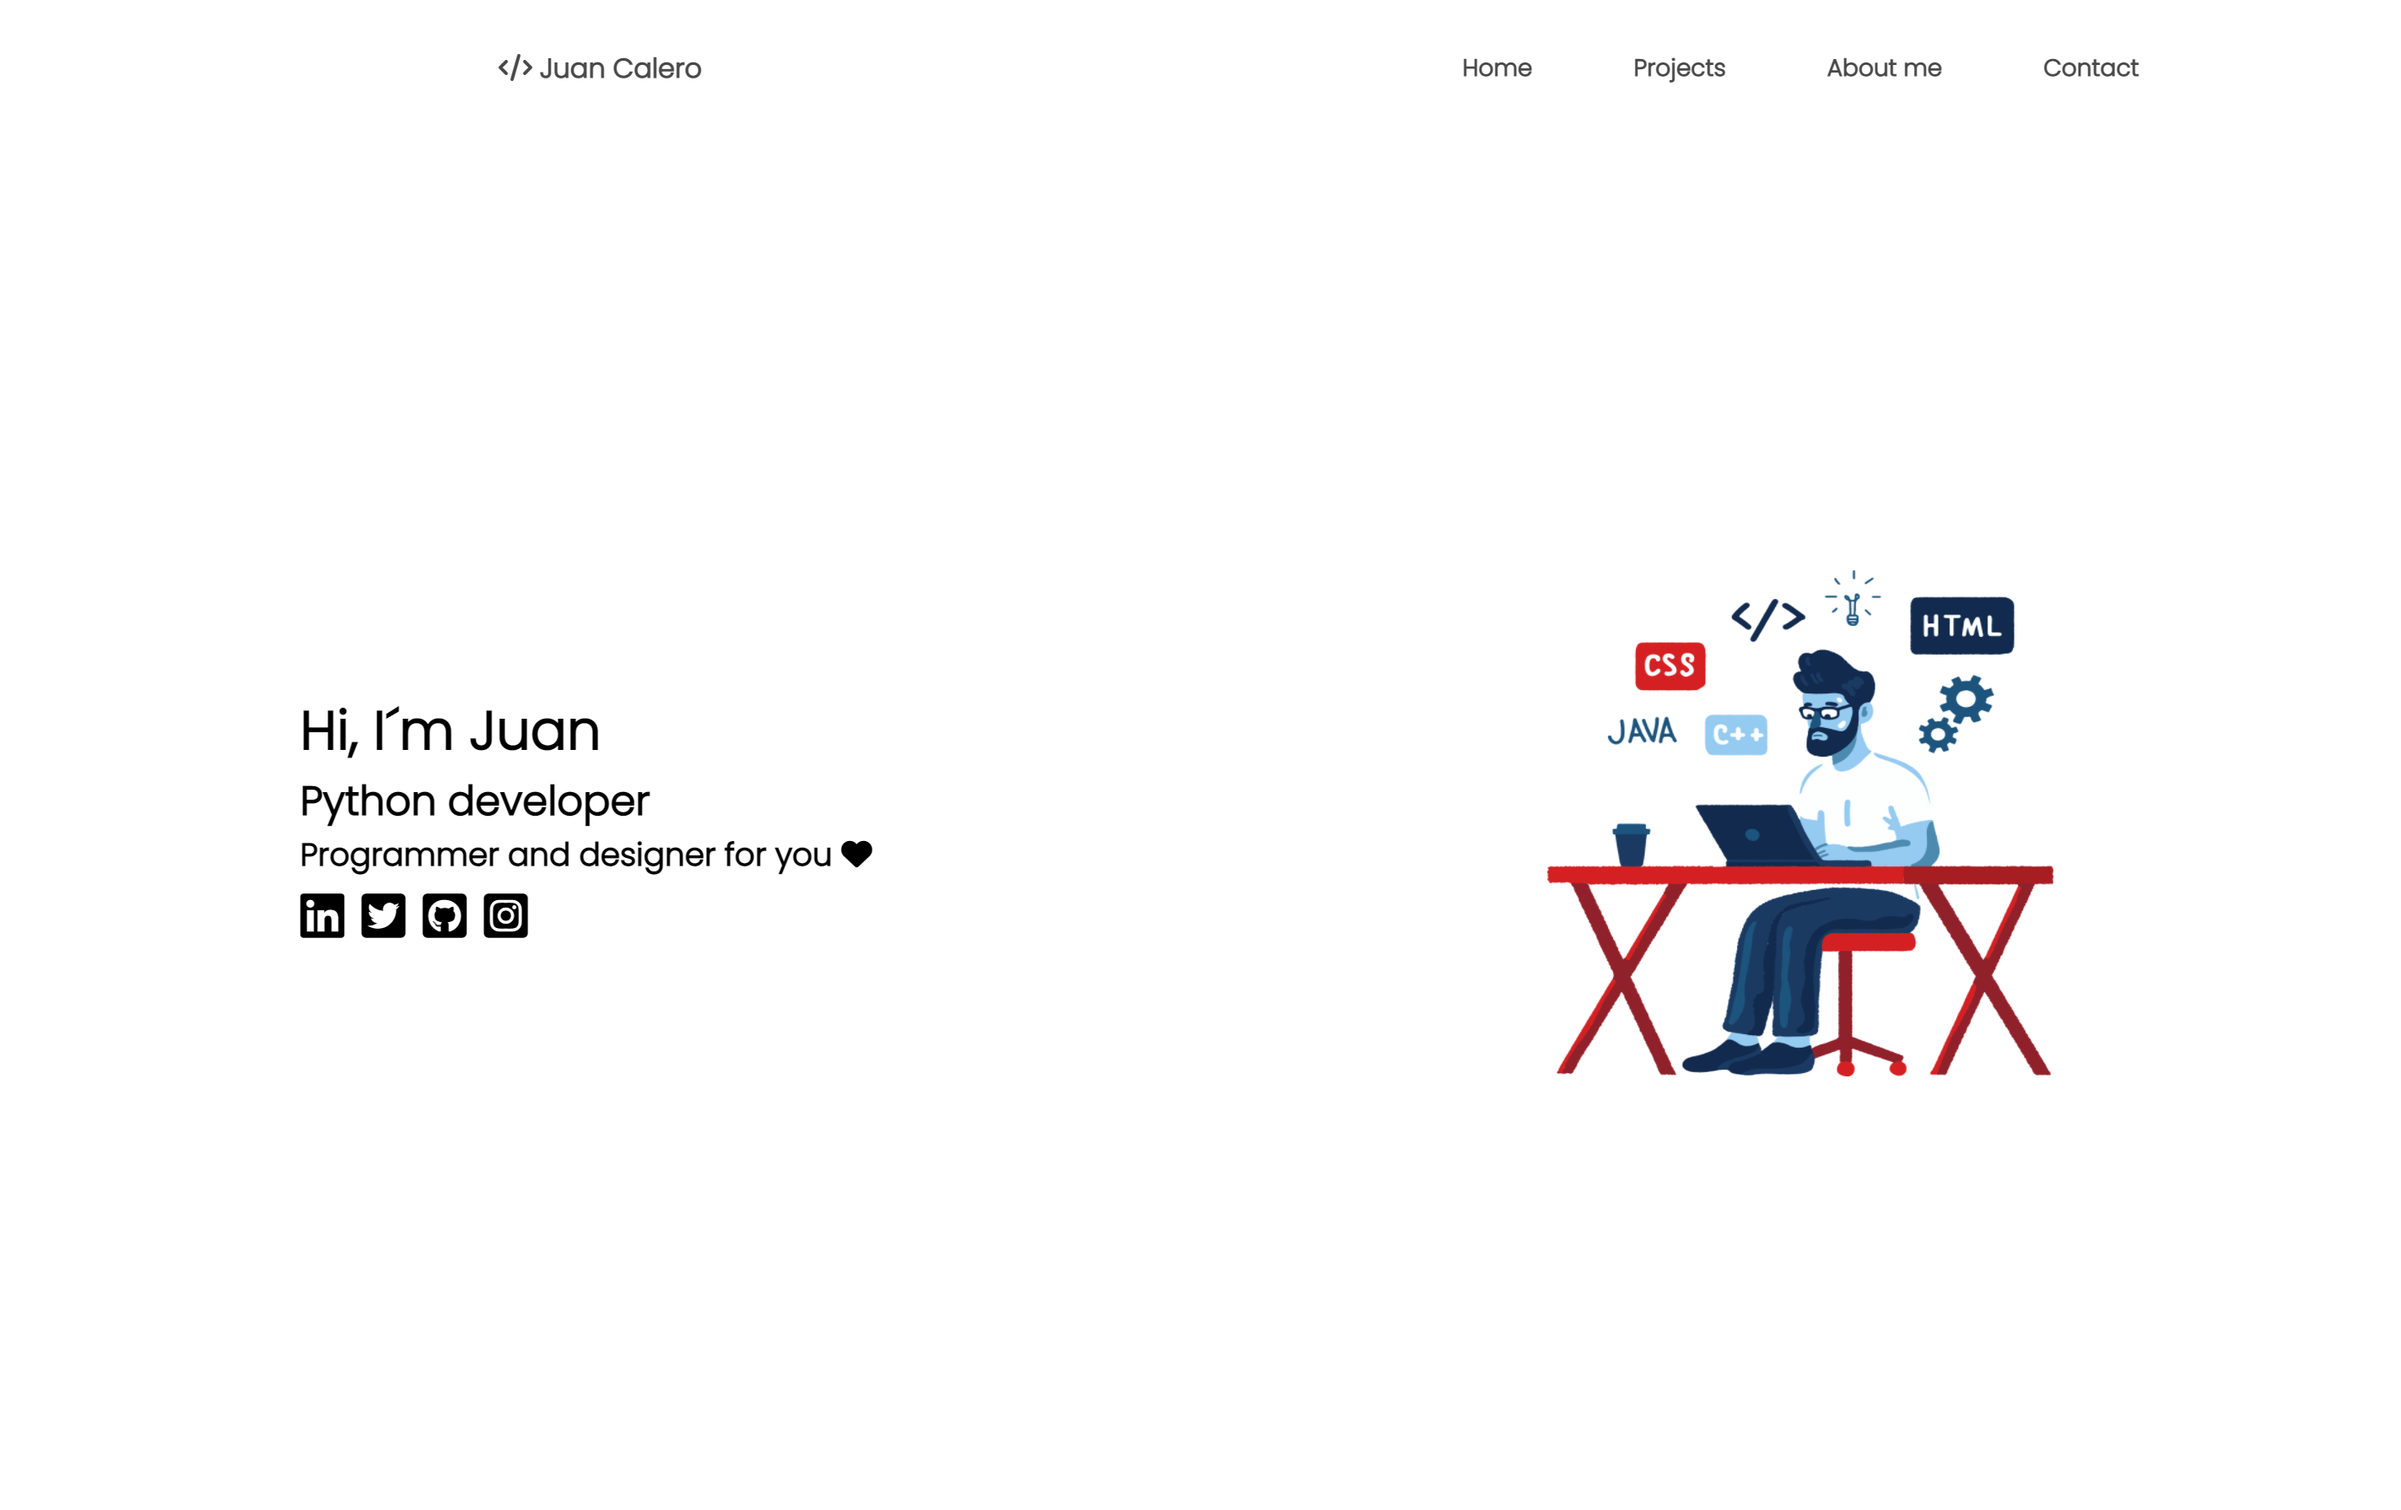
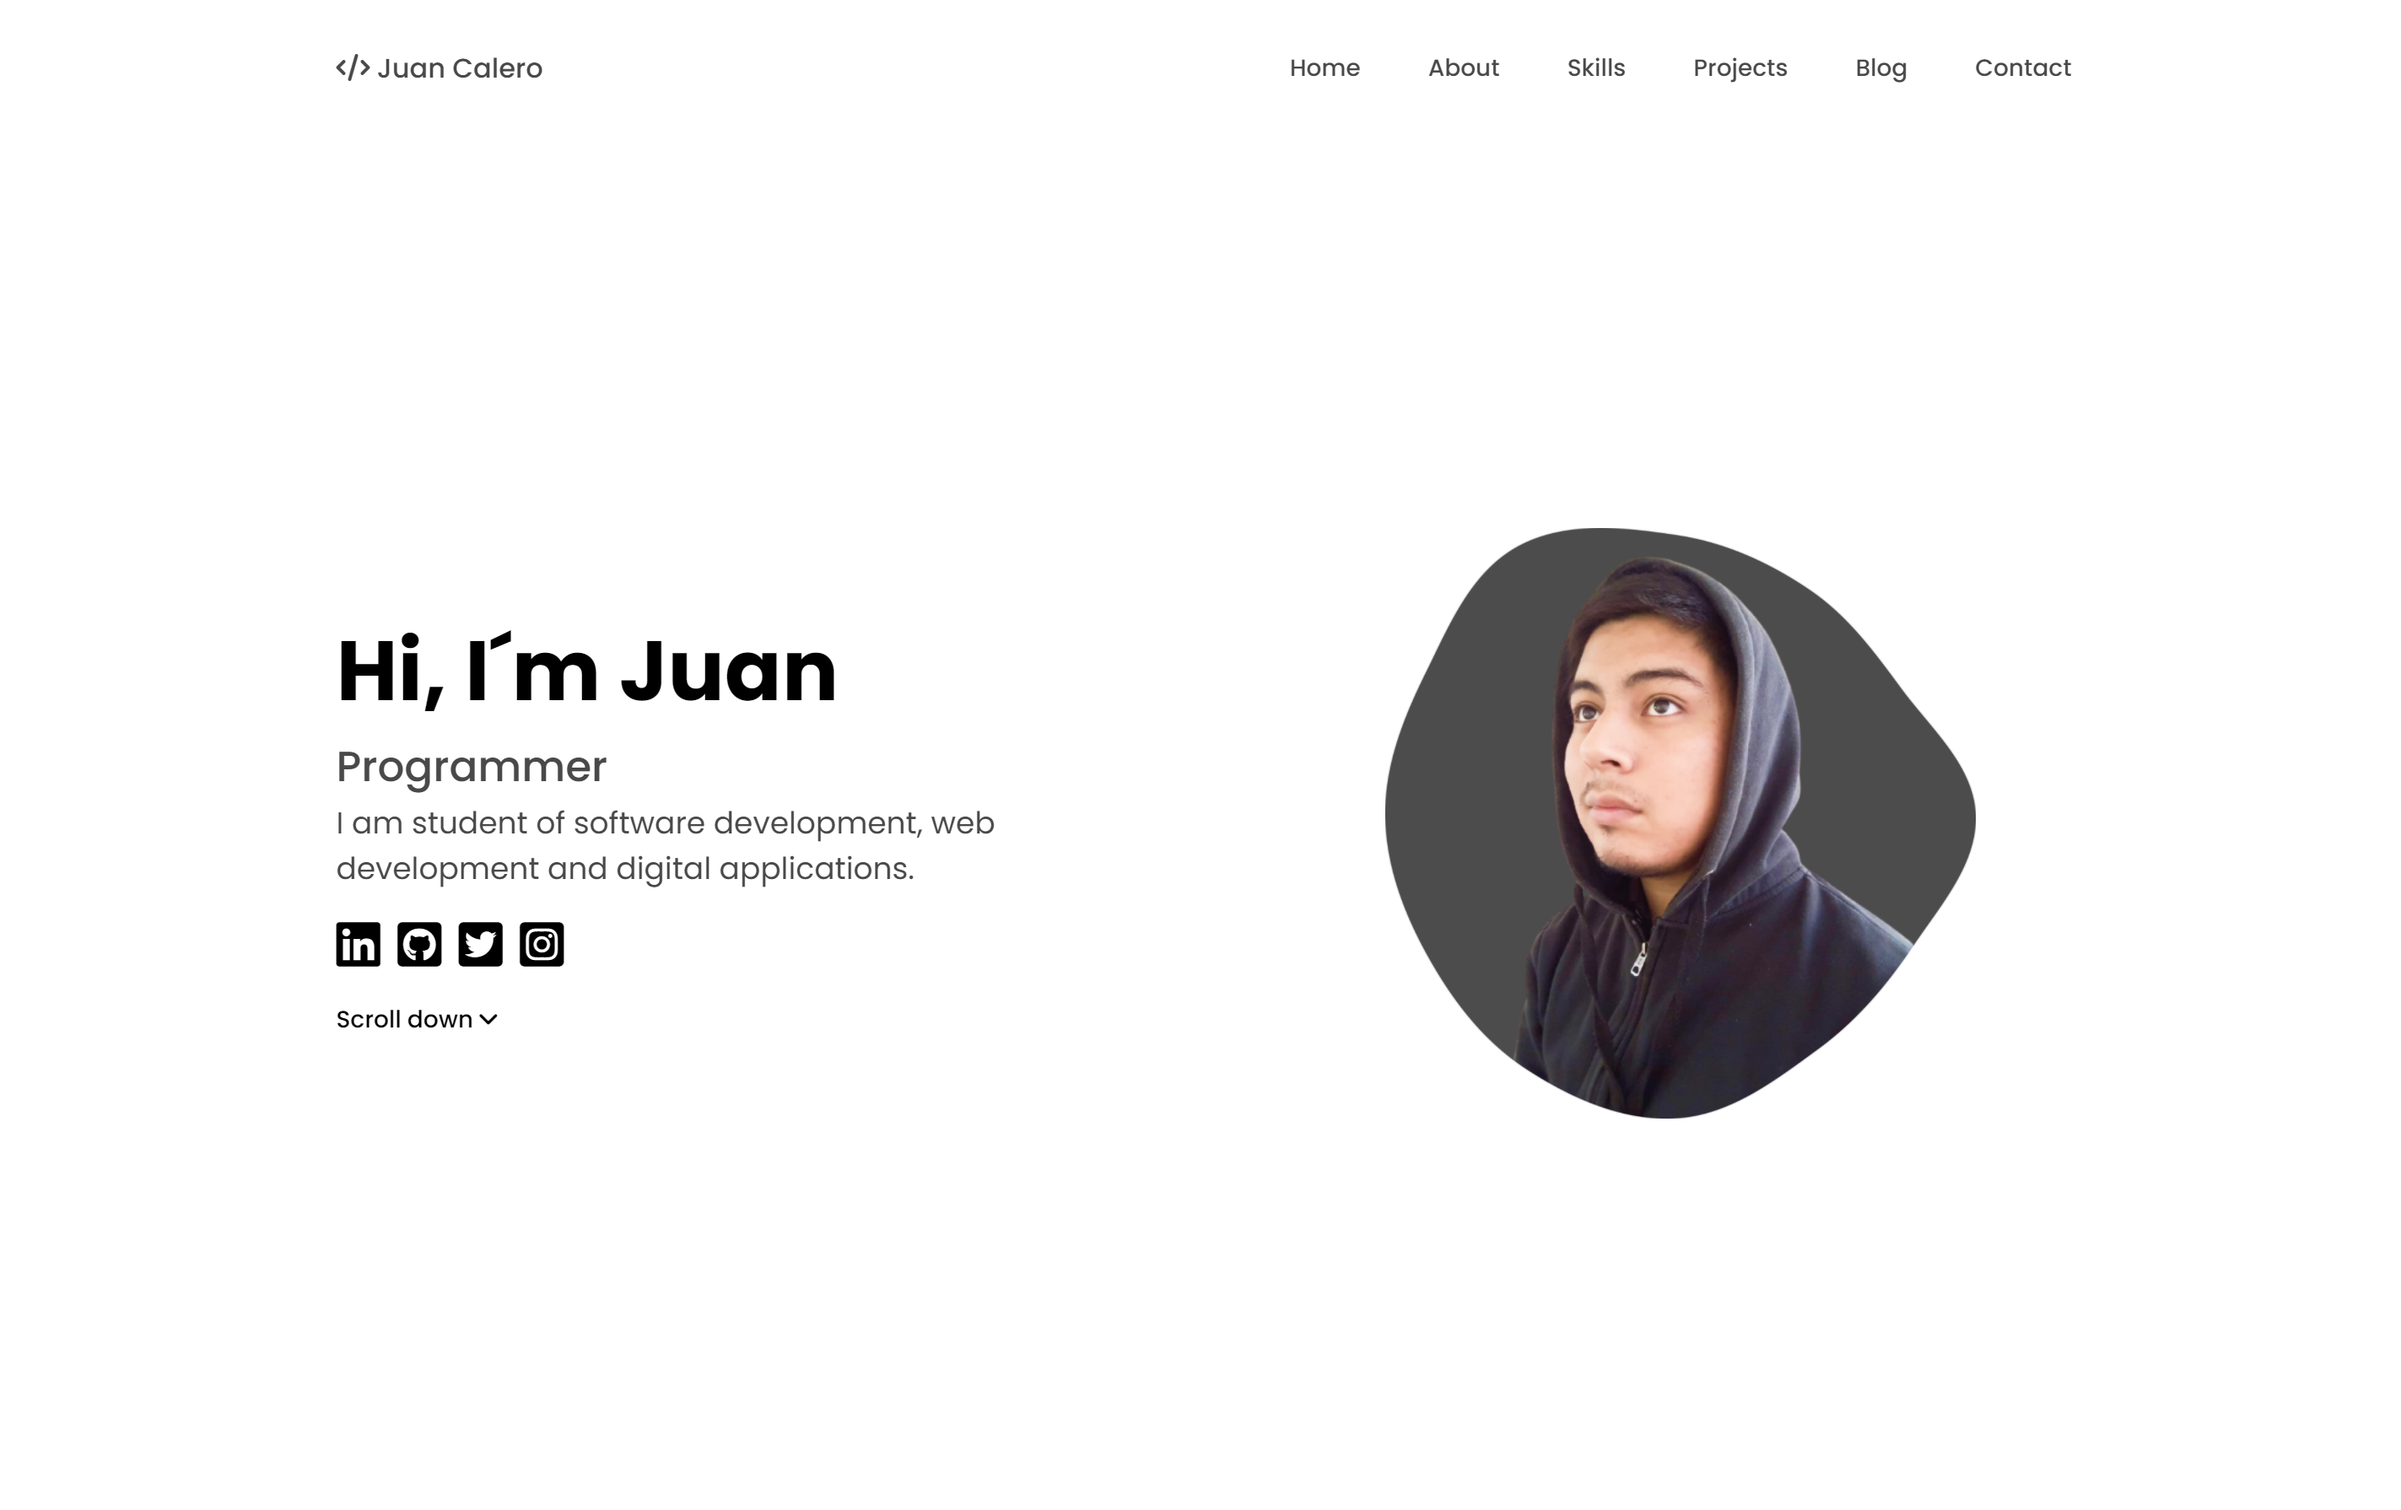
nuevos cambios

diff --git a/Backend/portfolio/templates/portfolio/index.html b/Backend/portfolio/templates/portfolio/index.html
@@ -9,8 +9,8 @@
     <link rel="stylesheet" href="https://cdnjs.cloudflare.com/ajax/libs/font-awesome/6.0.0/css/all.min.css">
     <link rel="preconnect" href="https://fonts.googleapis.com">
     <link rel="preconnect" href="https://fonts.gstatic.com" crossorigin>
-    <link href="https://fonts.googleapis.com/css2?family=Poppins:wght@300&display=swap" rel="stylesheet">
-
+    <link href="https://fonts.googleapis.com/css2?family=Poppins:wght@400;500;600;700&display=swap" rel="stylesheet">
+    <link rel="icon" type="image/x-icon" href="{% static '/img/favicon.ico' %}">
     <link rel="stylesheet" href="{% static 'css/style.css' %}">
     <title>Portfolio</title>
 
@@ -25,29 +25,35 @@
         </div>
         <ul>
             <li><a href="#">Home</a></li>
+            <li><a href="#">About</a></li>
+            <li><a href="#">Skills</a></li>
             <li><a href="#">Projects</a></li>
-            <li><a href="#">About me</a></li>
+            <li><a href="#">Blog</a></li>
             <li><a href="#">Contact</a></li>
         </ul>
     </nav>
     <div class="main-container">
         <div class="main-title">
             <h1>Hi, I´m Juan</h1>
-            <h2>Python developer</h2>
-            <h3>Programmer and designer for you <i class="fa-solid fa-heart"></i></h3>
+            <h2>Programmer</h2>
+            <p>I am student of software development, web development and digital applications.</p>
             <ul>
                 <li><a href="#"><i class="fa-brands fa-linkedin"></i></a></li>
-                <li><a href="#"><i class="fa-brands fa-twitter-square"></i></a></li>
                 <li><a href="#"><i class="fa-brands fa-github-square"></i></a></li>
+                <li><a href="#"><i class="fa-brands fa-twitter-square"></i></a></li>
                 <li><a href="#"><i class="fa-brands fa-instagram-square"></i></a></li>
             </ul>
+            <div>
+                <a href="#"> Scroll down <i class="fa-solid fa-angle-down"></i></a>
+            </div>
         </div>
         <div class="main-image">
-            <img src="{% static 'img/ilustration.png' %}" alt="">
+            <img src="{% static 'img/me.png' %}" alt="">
         </div>
     </div>
-    {% comment %} <div class="projects-container">
-        Projects
+    {% comment %} <div class="about-container">
+        <h1>About me</h1>
+        <p>My introduction</p>
     </div> {% endcomment %}
 </body>
 </html>

diff --git a/Backend/portfolio/static/css/style.css b/Backend/portfolio/static/css/style.css
@@ -9,26 +9,27 @@
 
 .nav-container{
     display: flex;
-    width: 100%;
+    width: 80%;
+    margin: 0 auto;
     height: 80px;
     position: sticky;
     top: 0;
     background-color: rgba(255, 255, 255, .15);  
-    backdrop-filter: blur(5px);
+    backdrop-filter: blur(6px);
 }
 
 .nav-logo{
     display: flex;
     align-items: center;
-    width: 50%;
+    width: 100%;
 }
 
 .nav-logo a{
-    width: 100%;
-    text-align: center;
+    width: 80%;
+    margin: 0 auto;
     color: #494949;
     font-size: 16px;
-    font-weight: 600;
+    font-weight: 500;
 }
 
 
@@ -36,17 +37,17 @@
     display: flex;
     justify-content: center;
     align-items: center;
-    width: 50%;
+    width: 100%;
 }
 .nav-container li{
     display: flex;
     align-items: center;
-    margin: 0 30px;
+    margin: 0 20px;
 }
 .nav-container ul li a{
     color: #494949;
     font-size: 14px;
-    font-weight: 600;
+    font-weight: 500;
 }
 .nav-container ul li a:hover{
     color: #000000;
@@ -65,7 +66,8 @@
 
 .main-container{
     height: calc(100vh - 80px);
-    width: 100%;
+    width: 80%;
+    margin: 0 auto;
     display: flex;
 }
 .main-title{
@@ -77,22 +79,49 @@
     align-items: center;
 }
 
-.main-title h1,h2,h3{
-    width: 50%;
+.main-title h1,h2,p{
+    width: 80%;
+    margin: 0 auto;
 }
 
+.main-title h1{
+    font-size: 50px;
+    font-weight: 700;
+}
+.main-title h2{
+    color: #494949;
+    font-size: 25px;
+    font-weight: 500;
+}
+.main-title p{
+    color: #494949;
+    font-size: 18px;
+    font-weight: 300;
+}
 .main-title ul{
     display: flex;
-    width: 50%;
+    width: 80%;
+    margin: 0 auto;
 }
 .main-title li{
-    margin: 0 10px 0 0;
+    margin: 10px 10px 10px 0px;
 }
 .main-title a{
     color: #000;
     font-size: 30px;
 }
 
+.main-title div{
+    width: 80%;
+    margin: 0 auto;
+    display: flex;
+    align-items: center;
+}
+.main-title div a{
+    font-size: 14px;
+    font-weight: 500;
+    transition: width 1s, height 1s, transform 2s;
+}
 
 
 .main-image{
@@ -104,14 +133,13 @@
 }
 
 .main-image img{
-    height: 300px;
-    width: 300px;
+    height: 350px;
+    width: 350px;
 }
 
-
-/* 
-
-.projects-container{
+/* .about-container{
     height: 100vh;
     width: 100%;
+    width: 80%;
+    margin: 0 auto;
 } */
